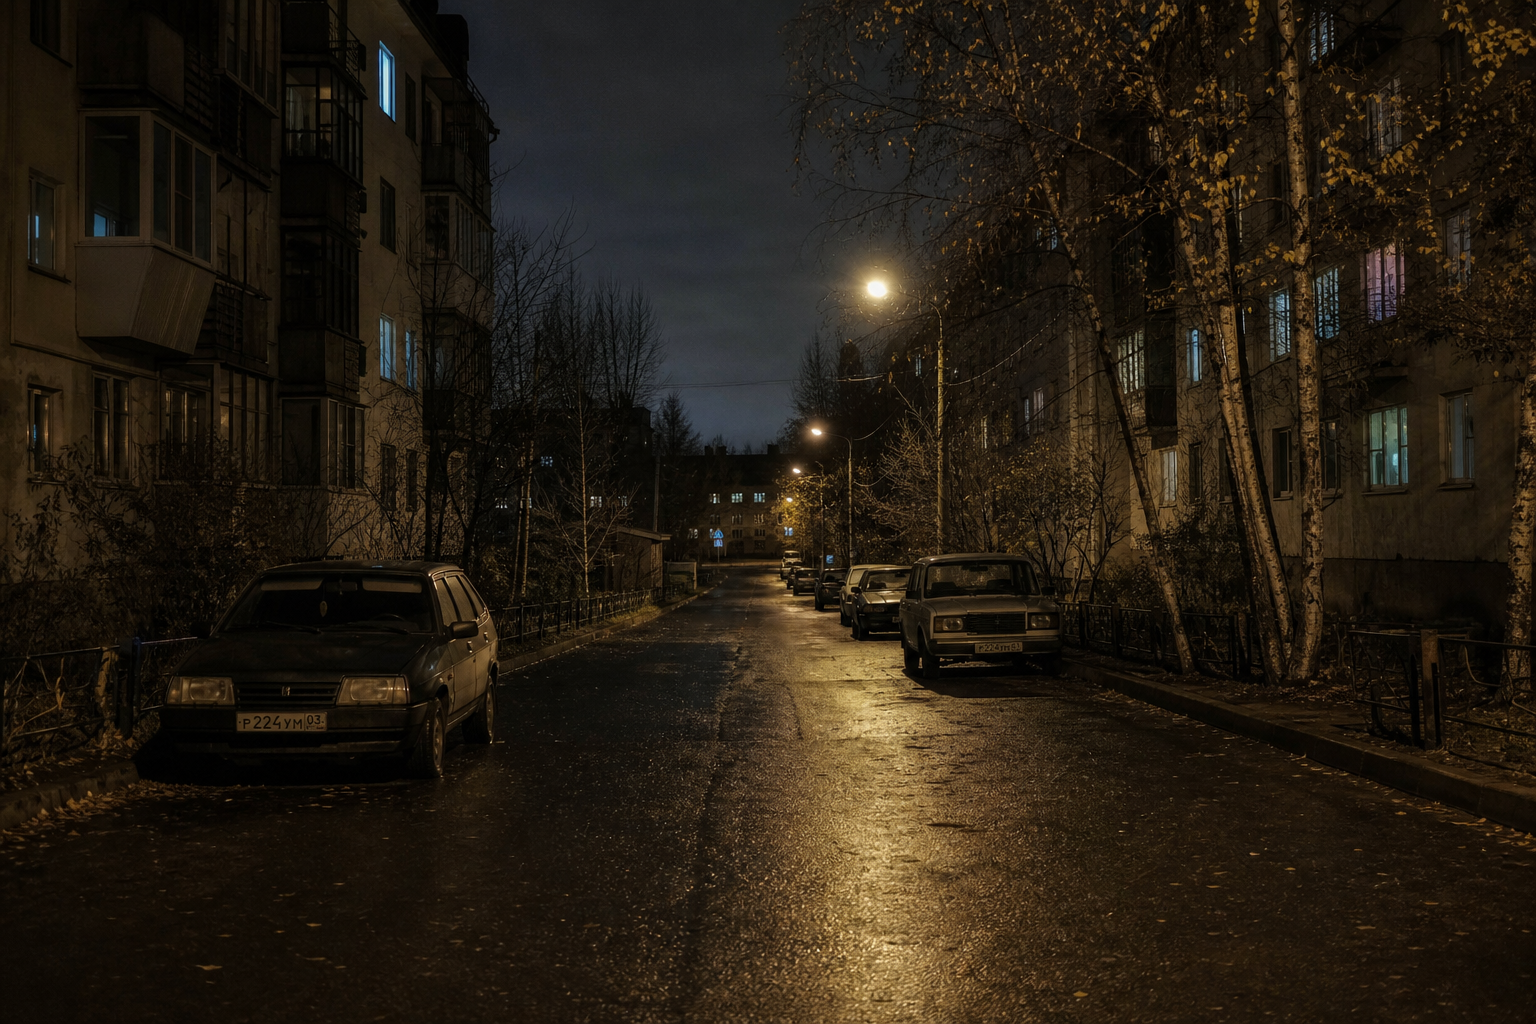
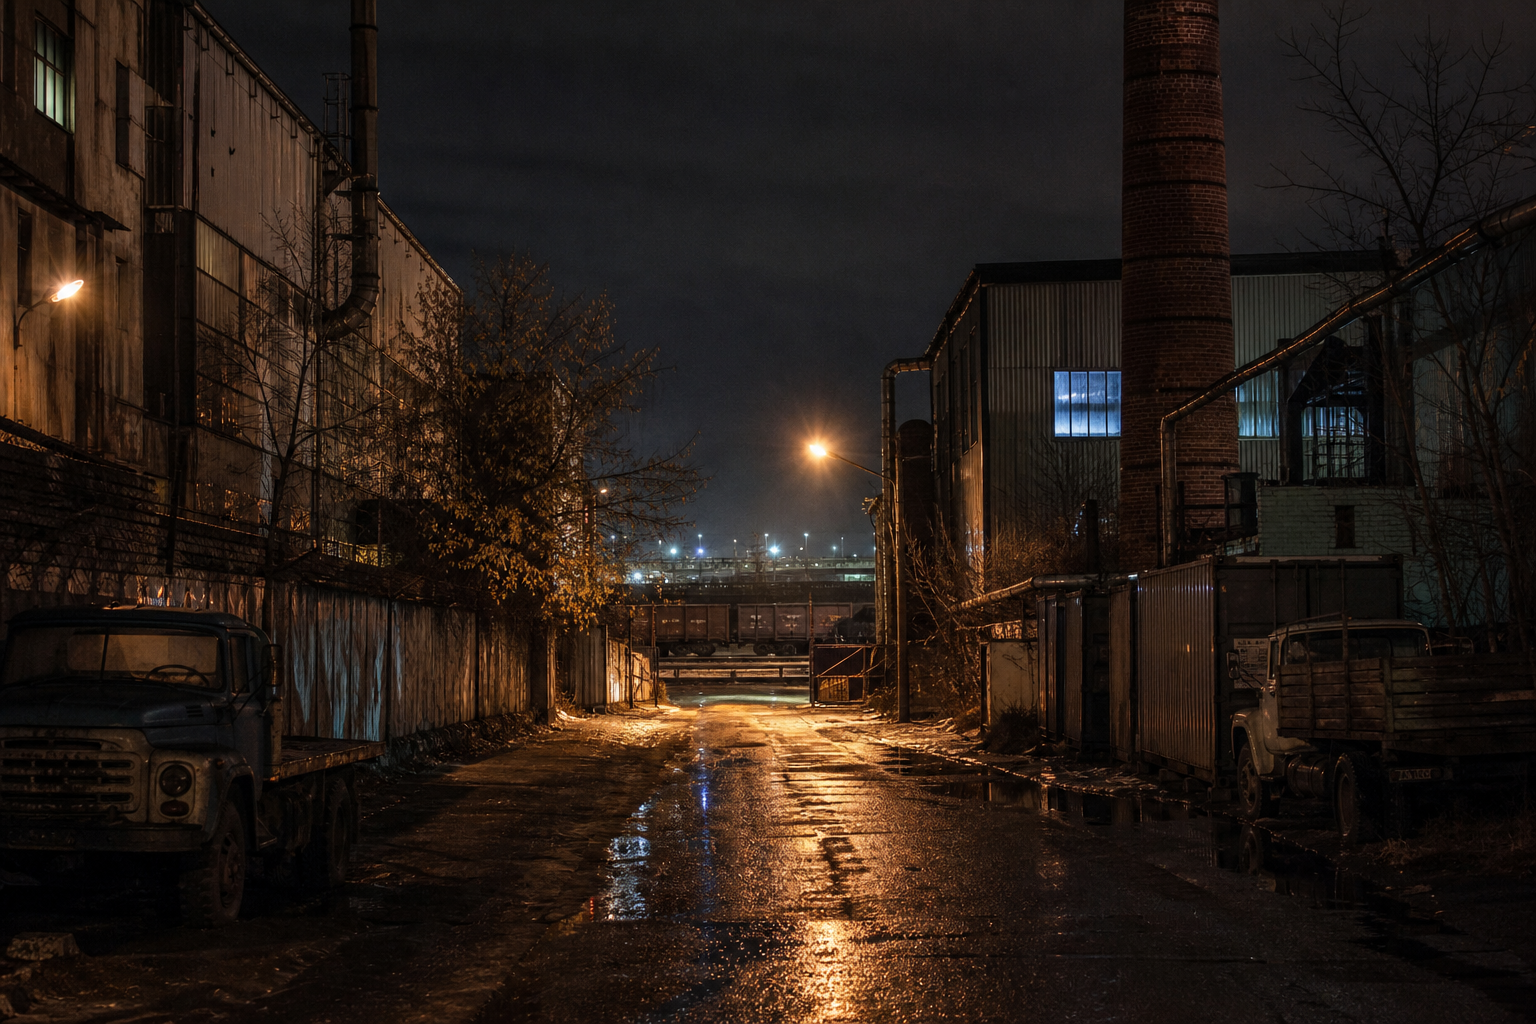
industrial image

diff --git a/scripts/install_scene_image.py b/scripts/install_scene_image.py
@@ -1,0 +1,52 @@
+#!/usr/bin/env python3
+"""Center-crop to 3:2 and resize a generated image to Conscript scene background size."""
+
+from __future__ import annotations
+
+import argparse
+import sys
+from pathlib import Path
+
+try:
+    from PIL import Image
+except ImportError:
+    print("Pillow required: pip install Pillow", file=sys.stderr)
+    sys.exit(1)
+
+TARGET_SIZE = (1536, 1024)
+TARGET_ASPECT = TARGET_SIZE[0] / TARGET_SIZE[1]
+
+
+def fit_scene_image(img: Image.Image) -> Image.Image:
+    img = img.convert("RGB")
+    w, h = img.size
+    current = w / h
+    if current > TARGET_ASPECT:
+        new_w = int(h * TARGET_ASPECT)
+        left = (w - new_w) // 2
+        img = img.crop((left, 0, left + new_w, h))
+    else:
+        new_h = int(w / TARGET_ASPECT)
+        top = (h - new_h) // 2
+        img = img.crop((0, top, w, top + new_h))
+    return img.resize(TARGET_SIZE, Image.Resampling.LANCZOS)
+
+
+def main() -> None:
+    parser = argparse.ArgumentParser(description=__doc__)
+    parser.add_argument("source", type=Path, help="Generated PNG (any size)")
+    parser.add_argument("dest", type=Path, help="Output path, e.g. Conscript/img/industrial.png")
+    args = parser.parse_args()
+
+    if not args.source.is_file():
+        print(f"Source not found: {args.source}", file=sys.stderr)
+        sys.exit(1)
+
+    args.dest.parent.mkdir(parents=True, exist_ok=True)
+    out = fit_scene_image(Image.open(args.source))
+    out.save(args.dest, optimize=True)
+    print(f"Wrote {args.dest} ({out.size[0]}x{out.size[1]})")
+
+
+if __name__ == "__main__":
+    main()

diff --git a/.cursor/skills/generate-images/SKILL.md b/.cursor/skills/generate-images/SKILL.md
@@ -1,0 +1,121 @@
+---
+name: generate-images
+description: >-
+  Generate Conscript scene background PNGs with the GenerateImage tool, match
+  the post-Soviet cinematic style, crop to 1536×1024, and install under
+  Conscript/img/. Use when the user asks to create, regenerate, or replace game
+  background art, district images, phase photos, or similar embedded textures —
+  not for GeoPandas maps (use generate-maps) or tiny item icons.
+---
+
+# Generate Images (GenerateImage → game asset)
+
+## Critical rule
+
+**You have the `GenerateImage` tool. Use it.**
+
+When the user asks for a new or updated scene background, do **not**:
+
+- Only describe what the image should look like
+- Search the web for stock photos
+- Draw placeholders with matplotlib/PIL from scratch
+- Copy an unrelated existing PNG without generating a new one
+
+**Do** call `GenerateImage`, then install the result into `Conscript/img/`.
+
+## When to use this skill
+
+| Request | Skill |
+|---------|--------|
+| Town / industrial / commercial / forest scene photo | **This skill** |
+| Sidebar `region-map.png` | [generate-maps](../generate-maps/SKILL.md) |
+| Steam caps, app icons | `scripts/generate_steam_assets.py` |
+| Small item icons (`items/*.png`) | GenerateImage if asked; often need transparent PNG — see [reference.md](reference.md) |
+
+## Workflow checklist
+
+Copy and complete:
+
+```
+- [ ] 1. Identify target file (grep Game.cs or user request)
+- [ ] 2. Read scene narrative in Game.cs (*Narrative constants)
+- [ ] 3. Read 1–2 reference PNGs in Conscript/img/ for style
+- [ ] 4. Call GenerateImage with a detailed prompt (below)
+- [ ] 5. Install: scripts/install_scene_image.py <generated> <dest>
+- [ ] 6. Visually verify (Read tool on output PNG)
+- [ ] 7. dotnet build conscript.slnx — embedded textures require rebuild
+```
+
+### Step 1 — Target file
+
+Scene backgrounds load from `Conscript/img/` in `Game.Run()` (`EmbeddedTextureLoader`). Full mapping: [reference.md](reference.md).
+
+Common filenames: `town.png`, `industrial.png`, `commercial.png`, `forest-entry.png`, `trees.png`, `forest-stream.png`, `store.png`, `tent-interior.png`, `apartment-inside.png`, `apartment-outside.png`.
+
+### Step 2 — Narrative drives content
+
+In `Conscript/Game.cs`, find the `*Narrative` string for the phase (e.g. `IndustrialDistrictNarrative`). **Translate narrative details into the image prompt** — warehouses, rail yard, neon shopfronts, etc.
+
+Setting: **Ulan-Ude, Republic of Buryatia** — post-Soviet Siberian town, early autumn, on-the-run mood.
+
+### Step 3 — Style anchors
+
+Before prompting, **Read** at least one existing scene PNG (usually `town.png` or the asset being replaced). Match:
+
+- Cinematic **photorealistic** night (or interior for store/tent)
+- Wet asphalt / heavy atmosphere when outdoors
+- Warm sodium streetlights, deep shadows, cool window accents
+- Gritty urban decay; **no people**, **no readable text/logos**
+- Landscape **3:2**, eye-level or slight low angle down a street/path
+
+Do **not** clone another district’s subject matter (e.g. don’t reuse a residential courtyard for `industrial.png`).
+
+### Step 4 — GenerateImage call
+
+Use `GenerateImage` with:
+
+- **description**: Full prompt (subject, lighting, palette, composition, exclusions). Include `3:2 aspect ratio` and `photorealistic`.
+- **filename**: Short slug, e.g. `industrial-district-draft.png` (saved under Cursor assets; path returned in tool result)
+
+**Prompt skeleton:**
+
+```text
+Cinematic photorealistic [interior|night photograph] of [SPECIFIC SCENE from narrative],
+post-Soviet Siberian town (Ulan-Ude), early autumn, on-the-run atmosphere.
+[KEY OBJECTS AND ARCHITECTURE from narrative and phase name.]
+[MATCH STYLE: wet pavement / sodium streetlights / deep shadows / film grain — or fluorescent interior for store.]
+Wide landscape 3:2 composition, no people, no text, no logos.
+```
+
+Regenerate if the result is wrong genre (residential blocks for industrial), daytime when night was intended, or cluttered with people/signage.
+
+### Step 5 — Install at game resolution
+
+All standard scene backgrounds are **1536×1024** (center-crop to 3:2, LANCZOS resize):
+
+```bash
+python3 scripts/install_scene_image.py \
+  /path/to/generated.png \
+  Conscript/img/industrial.png
+```
+
+Requires Pillow (`pip install Pillow` or `scripts/requirements.txt`).
+
+### Step 6 — Verify in game
+
+`DrawSceneBackground` scales the texture with `DrawTexturePro` into the central art panel; time-of-day tints apply outdoors. Rebuild, run, travel to the phase (e.g. Town → INDUSTRIAL DISTRICT).
+
+## Troubleshooting
+
+| Issue | Fix |
+|-------|-----|
+| Agent “forgot” to generate | Re-read this skill; **must** call `GenerateImage` |
+| Image looks like wrong district | Regenerate; tighten prompt with narrative specifics |
+| Stale texture in game | `dotnet build` after PNG change |
+| Map markers wrong | Use **generate-maps**, not this skill |
+| User wants data chart / diagram | Do not use GenerateImage; use code or canvas |
+
+## Additional resources
+
+- Asset table, narratives, item-icon notes: [reference.md](reference.md)
+- Map pipeline: [generate-maps](../generate-maps/SKILL.md)

diff --git a/.cursor/skills/generate-images/reference.md b/.cursor/skills/generate-images/reference.md
@@ -1,0 +1,70 @@
+# Generate Images — reference
+
+## Scene background inventory
+
+| PNG | Phase / use | Narrative constant (`Game.cs`) |
+|-----|----------------|--------------------------------|
+| `apartment-inside.png` | Opening | `OpeningNarrative` |
+| `apartment-outside.png` | Outside (courtyard) | `OutsideNarrative` |
+| `town.png` | Town | `TownNarrative` |
+| `industrial.png` | Industrial District | `IndustrialDistrictNarrative` |
+| `commercial.png` | Commercial District | `CommercialDistrictNarrative` |
+| `store.png` | Convenience store | `StoreNarrative` |
+| `forest-entry.png` | Forest entry | `ForestEntryNarrative` |
+| `trees.png` | Forest | `ForestNarrative` |
+| `forest-stream.png` | Forest stream | `ForestStreamNarrative` |
+| `tent-interior.png` | Tent interior | `TentNarrative` |
+
+**Not scene backgrounds:** `region-map.png` (generate-maps), `conscript-title.png`, `trash-bag-tent.png` (overlay prop), `items/*.png`.
+
+**Standard size:** 1536×1024 RGB PNG.
+
+## Narrative excerpts (prompt fodder)
+
+Sync with `Game.cs` if strings change.
+
+- **Town:** Empty streets under streetlights; industrial west, commercial east; shadows.
+- **Industrial:** Warehouses, fenced lots, distant rail yard, few lit windows, edge of town.
+- **Commercial:** Shopfronts, late-night kiosk glow, thin foot traffic, pines south of blocks.
+- **Store:** Brutal fluorescent interior, security camera, clerk on phone — **interior**, not street.
+- **Forest entry:** Edge of pines, leaving town behind.
+- **Forest / stream:** Deep taiga, snow, survival — cold greens and browns, not urban.
+- **Tent:** Crude trash-bag shelter interior — cramped, dim.
+
+## Style palette (outdoor districts)
+
+| Element | Guidance |
+|---------|----------|
+| Time | Night (districts/town); dawn/dusk only if narrative demands |
+| Weather | Damp pavement, recent rain, reflections |
+| Lights | Sodium amber streetlights; occasional cool window glow |
+| Architecture | Soviet-era blocks, corrugated warehouses, shop neon for commercial |
+| Vehicles | Old Lada/truck silhouettes OK; not the focus |
+| Mood | Lonely, oppressive, cinematic — “doomer” urban photography |
+| Avoid | People, readable signs, logos, fantasy, bright daytime |
+
+## Example prompts
+
+**Industrial district** (`industrial.png`):
+
+```text
+Cinematic nighttime photograph of a post-Soviet industrial district on the edge of a Siberian town. Narrow wet asphalt between weathered warehouses and corrugated factories, chain-link fences, rusted pipes, shipping containers, brick chimney. Warm sodium streetlights on rain-slick road; distant rail yard lights; old Soviet truck parked; sparse bare autumn trees. Moody gritty photorealistic, 3:2 landscape, no people, no text.
+```
+
+**Commercial district** (`commercial.png`):
+
+```text
+Cinematic nighttime photograph of a post-Soviet commercial street in a Siberian town. Small shopfronts, late-night convenience kiosk with warm neon, wet pavement reflecting signs, empty sidewalk, Khrushchyovka blocks in background. Same moody amber/cool palette as town scene but clearly retail not industrial. Photorealistic 3:2, no people, no readable text.
+```
+
+## Item icons (`items/*.png`)
+
+- Smaller assets; sizes vary — check existing icon dimensions before resizing.
+- Often need **transparent** backgrounds; GenerateImage may produce opaque PNGs — user may need manual alpha cleanup or accept solid backing.
+- Only generate when explicitly requested; gameplay readability matters at small size.
+
+## Wiring (no code change for swap-in)
+
+Replacing `Conscript/img/<name>.png` does not require C# edits if `Game.Run()` already loads that filename. New phases need `Game.cs` texture field + `EnterPhase` switch entry.
+
+Fallback pattern: `LoadTextureOrFallback("industrial.png", _townBackground)` — missing file silently uses town art; still install the PNG.
